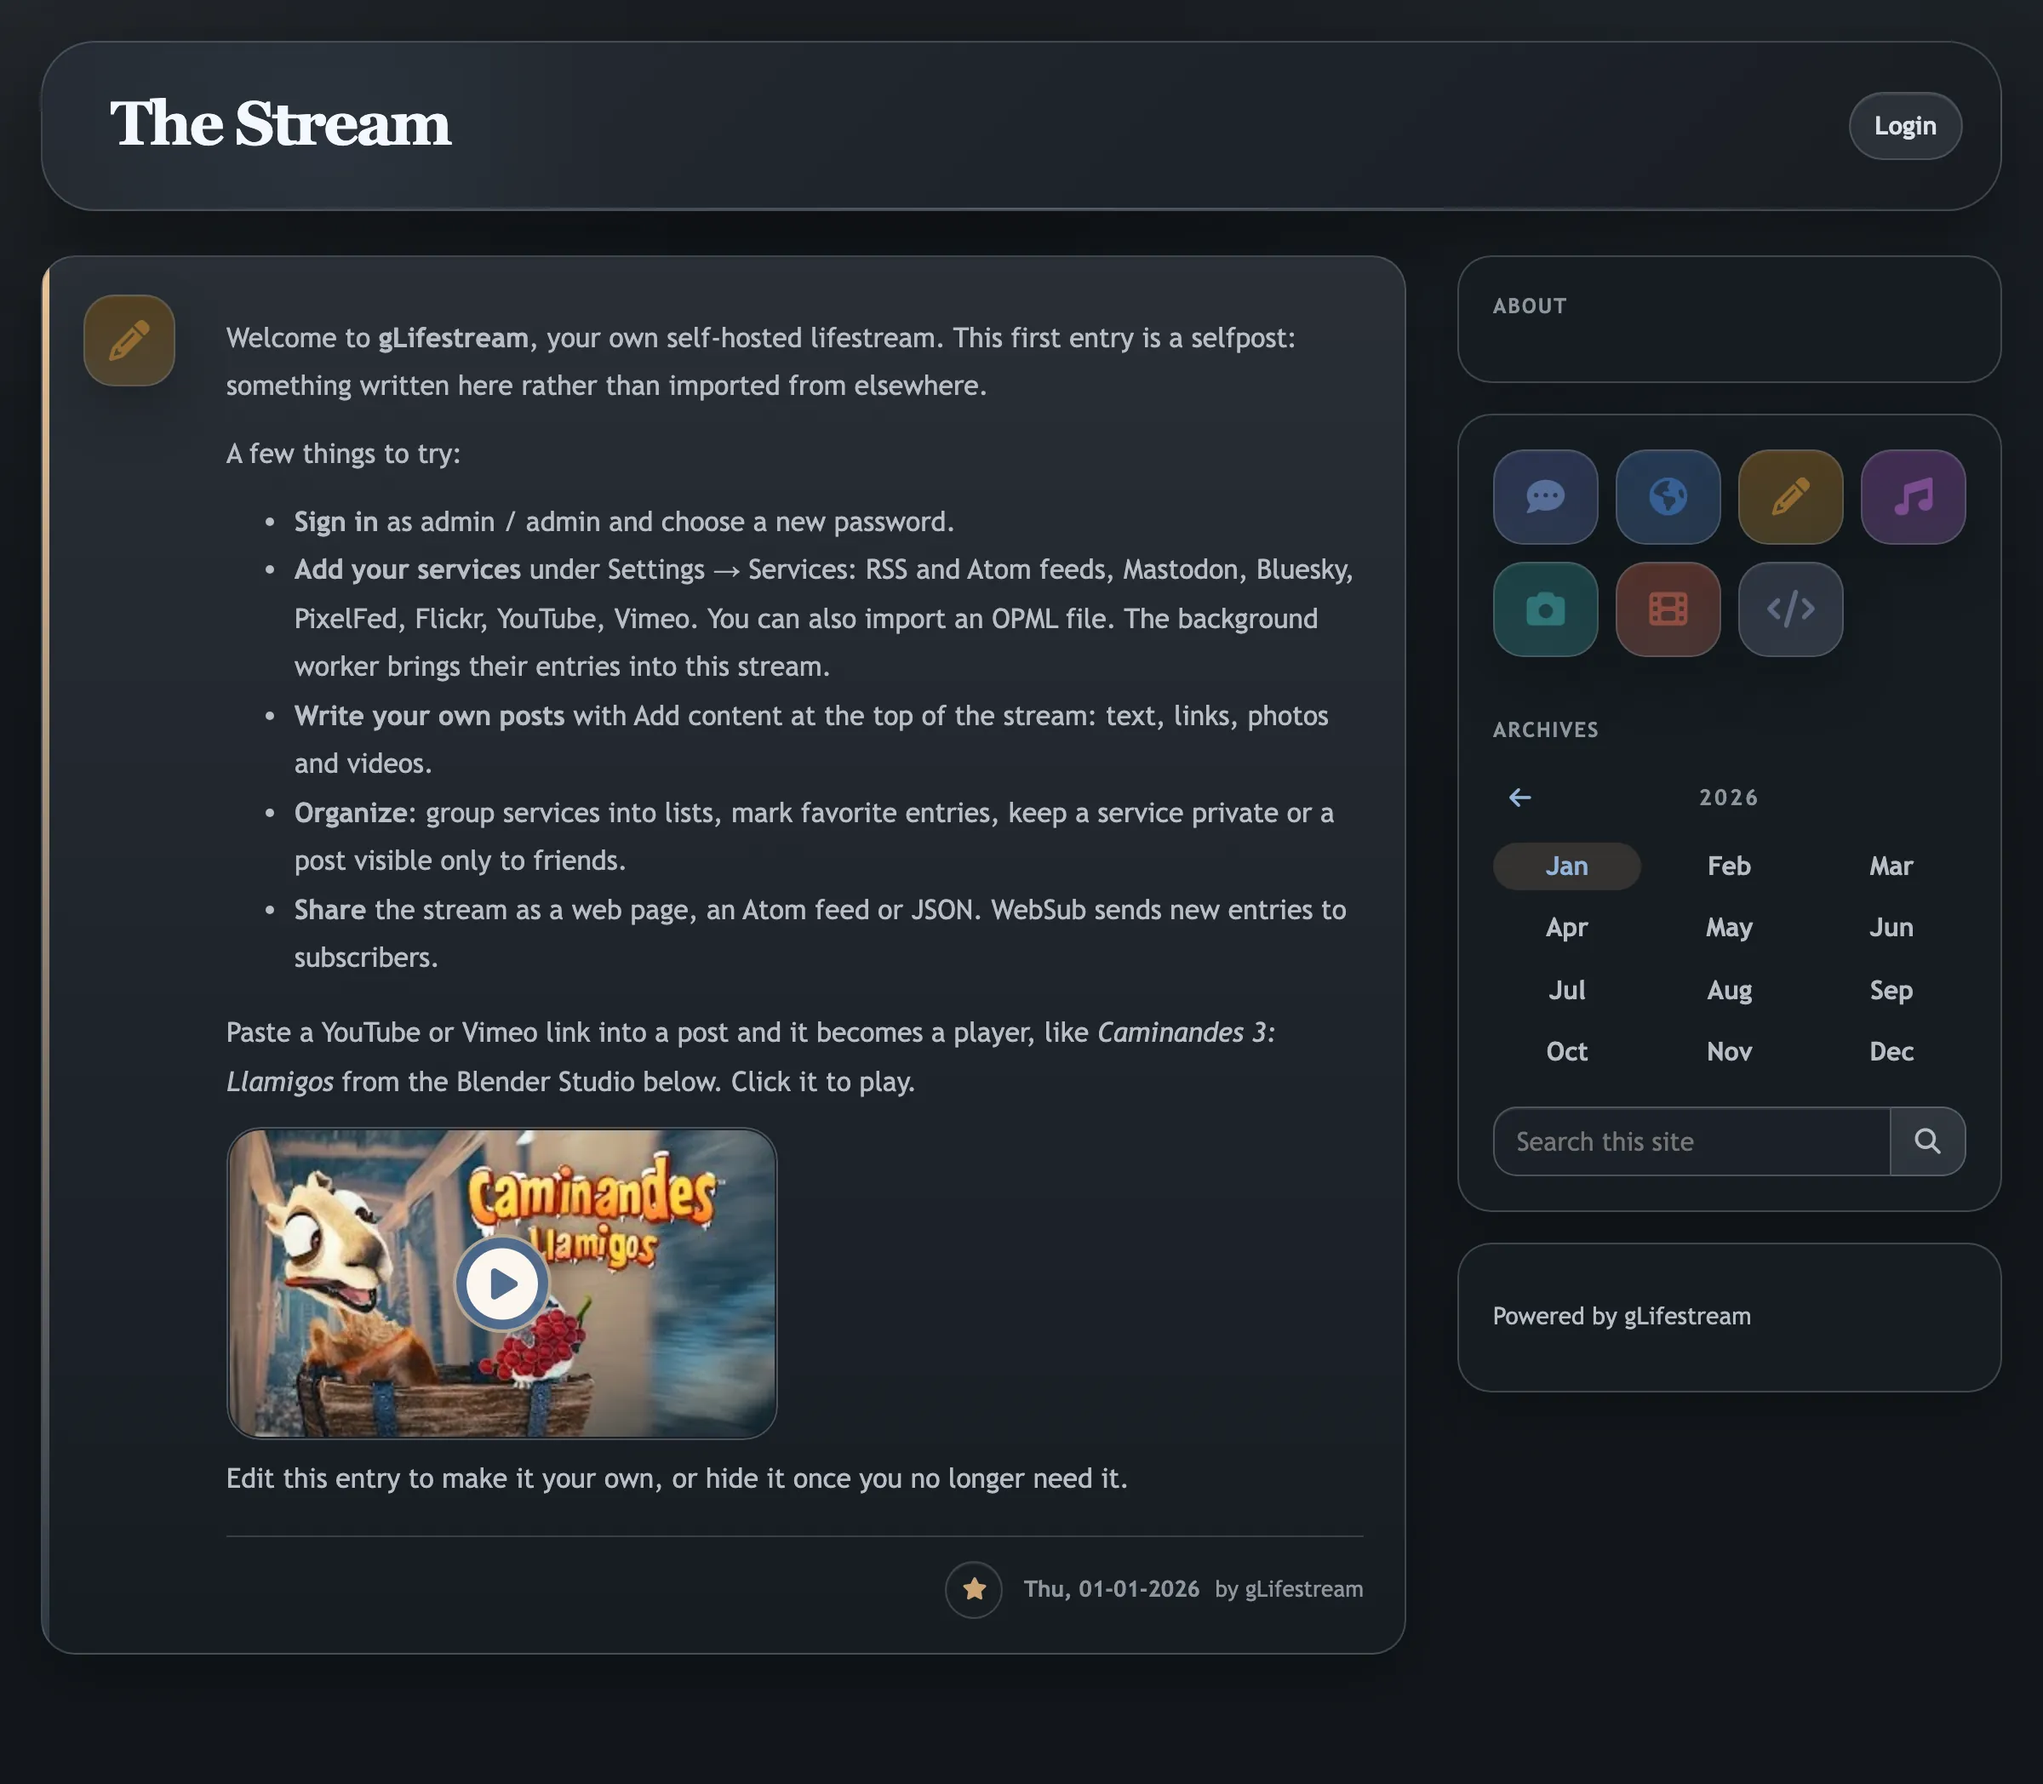
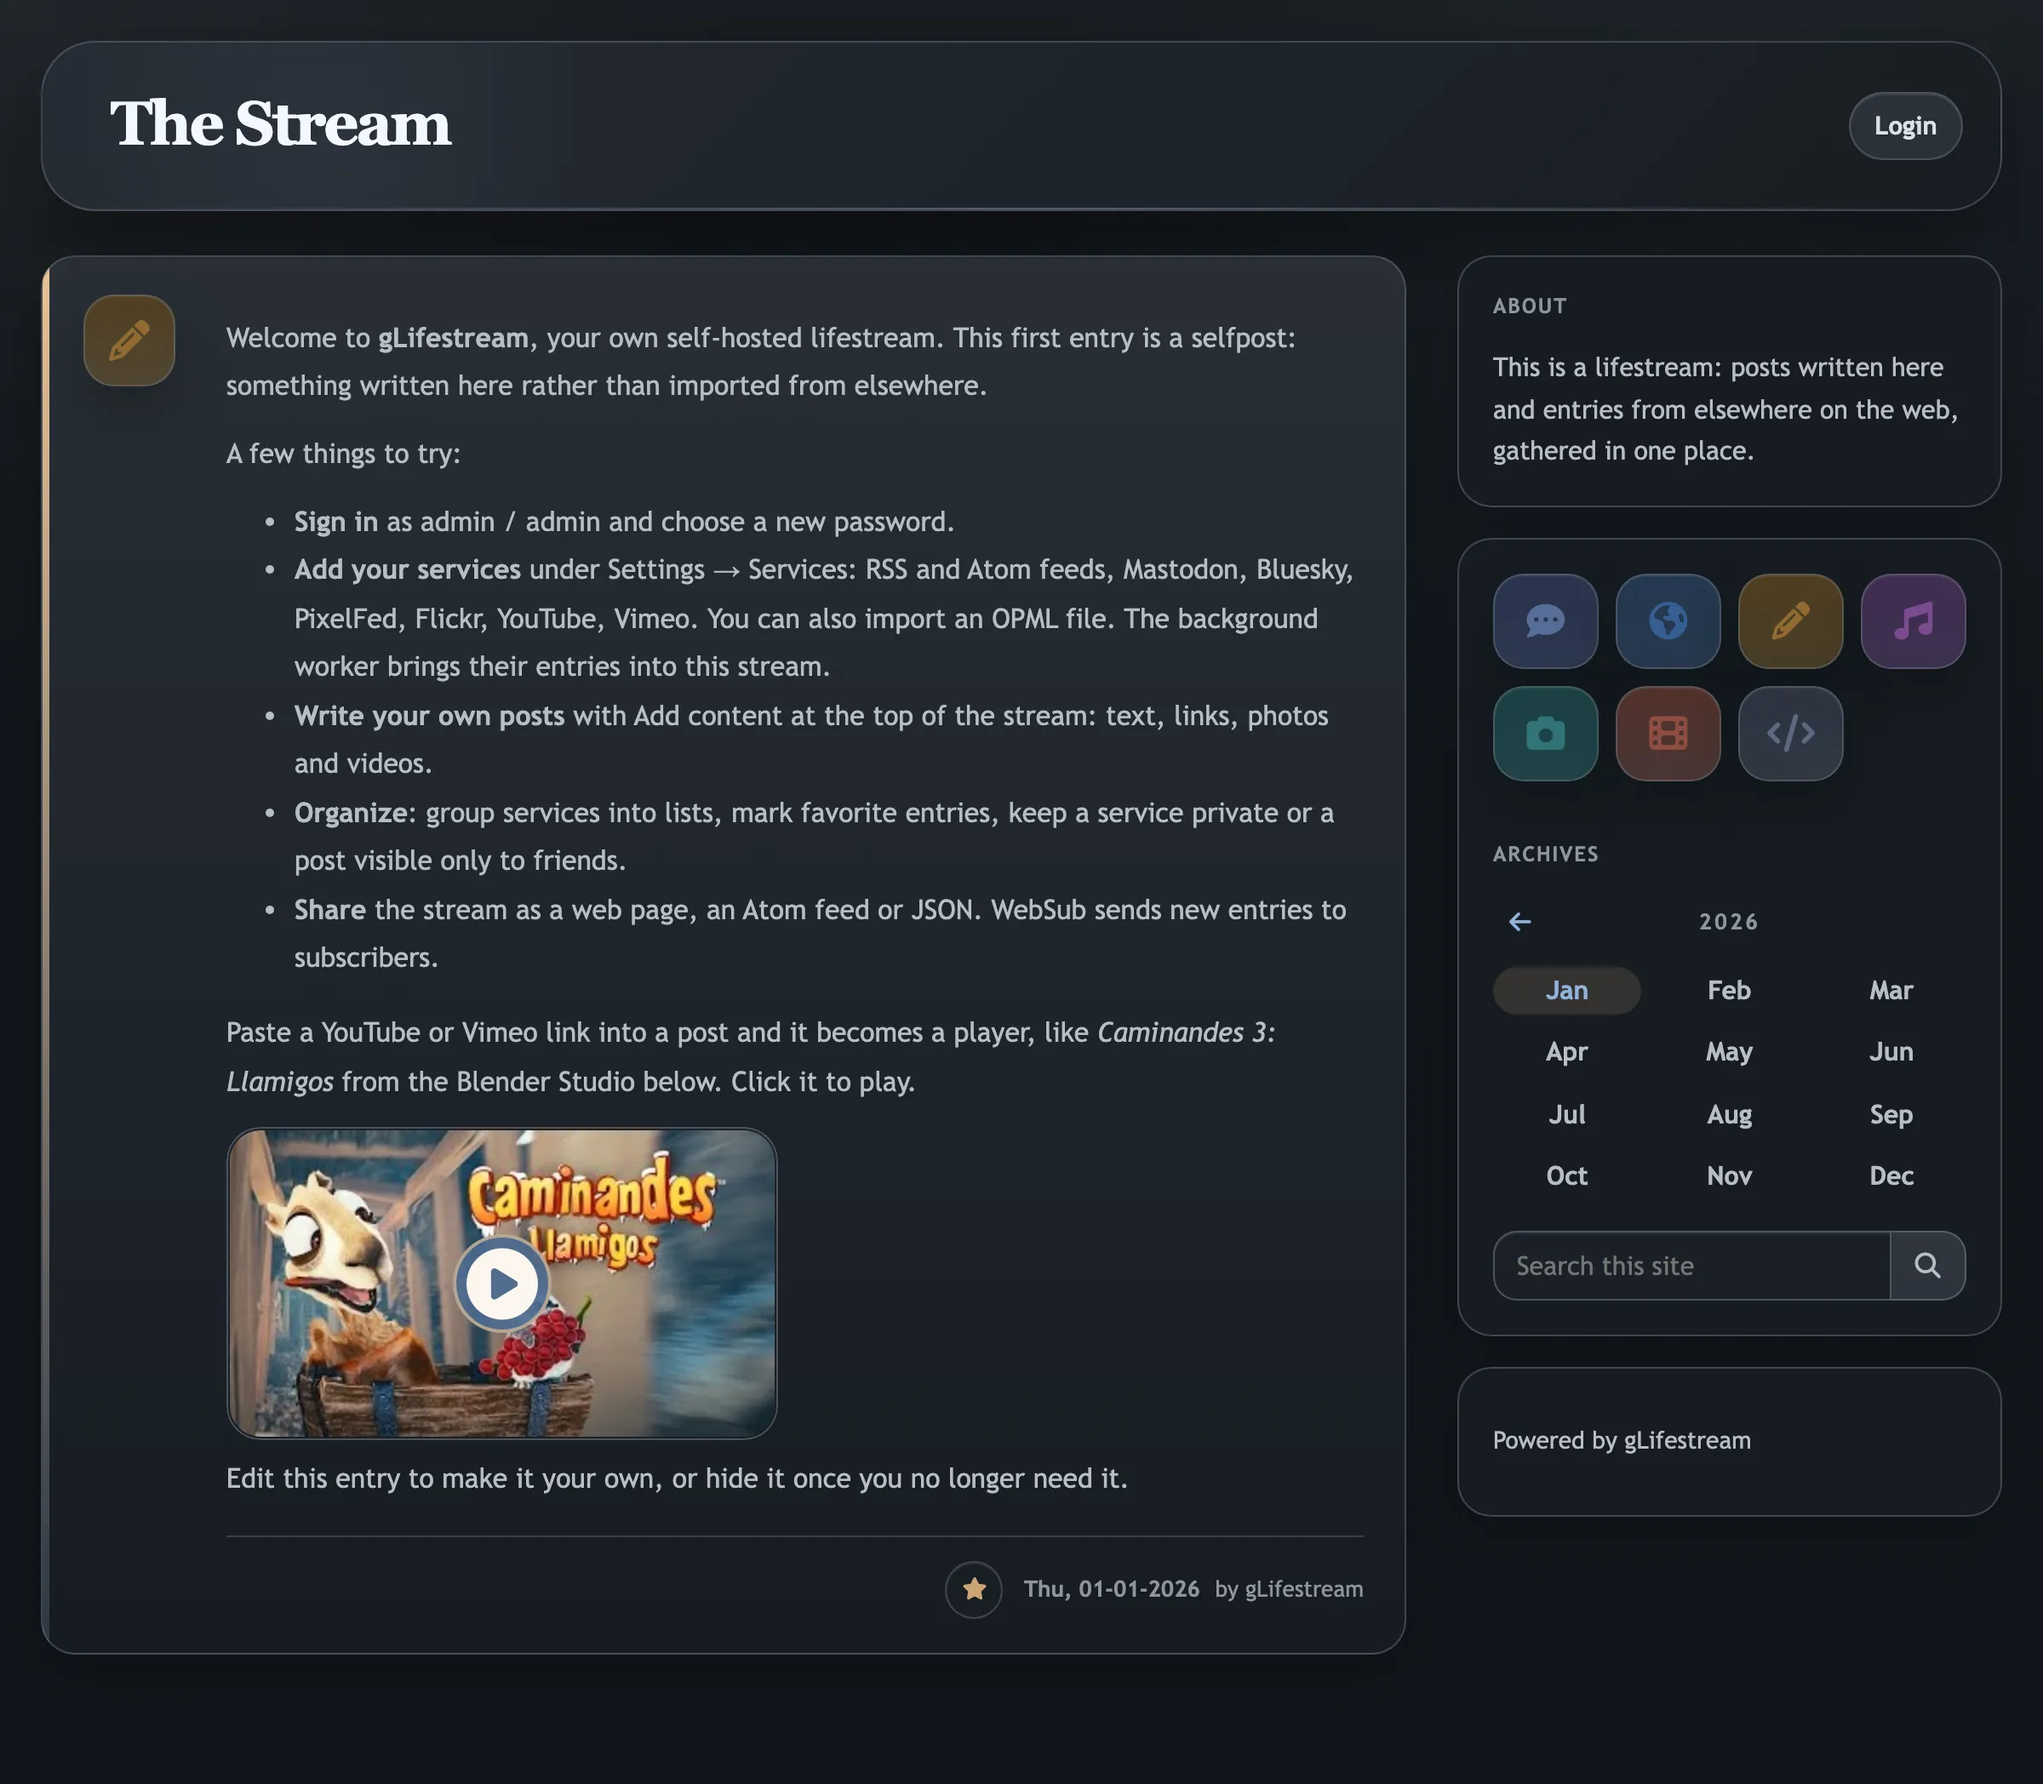
feat: make a first start look like the README screenshot

diff --git a/glifestream/static/themes/default/style.scss b/glifestream/static/themes/default/style.scss
@@ -1273,7 +1273,8 @@ img.entry-icon {
 
 // On the timeline a long entry folds to --fold-lines lines (the user's
 // preference), fading out, until "Show more" unfolds it. An entry on its own
-// page never folds: the page script folds only what this rule would hide.
+// page, or alone on the timeline, never folds: the page script folds only
+// what this rule would hide.
 #stream:not(.single-entry) .entry-content.folded {
   max-height: calc(var(--fold-lines, 20) * 1.8em);
   max-height: calc(var(--fold-lines, 20) * 1lh);

diff --git a/glifestream/templates/stream.html b/glifestream/templates/stream.html
@@ -63,7 +63,7 @@
 
 {% block mainClass %}stream{% endblock mainClass %}
 {% block main %}
-<main id="stream" class="hfeed{% if page.exactentry %} single-entry{% endif %}">
+<main id="stream" class="hfeed{% if page.exactentry or entries|length == 1 %} single-entry{% endif %}">
 
 {% if authed %}
 <aside id="share" class="share-collapsed">

diff --git a/glifestream/tests/test_worker_management_commands.py b/glifestream/tests/test_worker_management_commands.py
@@ -25,6 +25,7 @@ from unittest.mock import patch
 import pytest
 from django.core.management import call_command
 from django.core.management.base import CommandError
+from django.template.loader import render_to_string
 from django.test import override_settings
 from django.utils import timezone
 
@@ -146,3 +147,41 @@ def test_worker_init_files_command_creates_missing_media_root(tmp_path):
 
     assert (media_root / 'upload').is_dir()
     assert (media_root / 'thumbs' / 'f').is_dir()
+
+
+def test_worker_init_files_command_writes_starting_user_templates(tmp_path):
+    media_root = tmp_path / 'media'
+    templates_dir = tmp_path / 'templates'
+    templates_dir.mkdir()
+    # An owner's own template is kept as it is.
+    (templates_dir / 'user-about.html').write_text('<p>Mine</p>')
+
+    with override_settings(
+        MEDIA_ROOT=str(media_root),
+        TEMPLATES=[
+            {
+                'BACKEND': 'django.template.backends.django.DjangoTemplates',
+                'DIRS': [str(templates_dir)],
+                'APP_DIRS': True,
+                'OPTIONS': {'context_processors': []},
+            }
+        ],
+    ):
+        call_command('worker_init_files', stdout=StringIO())
+        copyright = render_to_string(
+            'user-copyright.html',
+            {
+                'page': {
+                    'copyright_years': '2025-2026',
+                    'author_name': 'gLifestream',
+                    'author_uri': 'https://example.com/',
+                }
+            },
+        )
+
+    assert (templates_dir / 'user-about.html').read_text() == '<p>Mine</p>'
+    assert 'Copyright &copy; 2025-2026' in copyright
+    assert '<a href="https://example.com/" class="url fn" rel="me">gLifestream</a>' in (
+        copyright
+    )
+    assert (templates_dir / 'user-scripts.js').read_text() == ''

diff --git a/glifestream/worker/init_files.py b/glifestream/worker/init_files.py
@@ -23,6 +23,22 @@ from typing import Any, cast
 
 from django.conf import settings
 
+# What a new installation shows until the owner edits these templates.
+USER_TEMPLATES = {
+    'user-about.html': """\
+{# The About box in the sidebar. Edit this file to say who you are. #}
+<p>This is a lifestream: posts written here and entries from elsewhere on
+  the web, gathered in one place.</p>
+""",
+    'user-copyright.html': """\
+{# The footer of the stream. Edit this file to name the stream's owner. #}
+<p id="copyright" class="vcard">Copyright &copy; {% if page.copyright_years %}{{ page.copyright_years }} {% endif %}
+  {% if page.author_uri %}<a href="{{ page.author_uri }}" class="url fn" rel="me">{{ page.author_name }}</a>{% else %}<span class="fn">{{ page.author_name }}</span>{% endif %}
+</p>
+""",
+    'user-scripts.js': '',
+}
+
 
 def init_files_dirs() -> int:
     upload = os.path.join(settings.MEDIA_ROOT, 'upload')
@@ -46,17 +62,12 @@ and all have write permissions by your webserver.
     templates = cast(list[dict[str, Any]], settings.TEMPLATES)
     template_dirs = cast(list[str], templates[0]['DIRS'])
     template_dir = template_dirs[0]
-    template_files = (
-        'user-about.html',
-        'user-copyright.html',
-        'user-scripts.js',
-    )
     try:
-        for template_file in template_files:
+        for template_file, content in USER_TEMPLATES.items():
             path = Path(template_dir, template_file)
             if not path.is_file():
-                print("Creating empty file '%s'" % path)
-                path.touch()
+                print("Creating file '%s'" % path)
+                path.write_text(content, encoding='utf-8')
     except Exception as exc:
         print(exc)
         return 1

diff --git a/glifestream/tests/test_views_index.py b/glifestream/tests/test_views_index.py
@@ -64,6 +64,17 @@ def test_index_date_year_filter(client, entries):
 
 
 @pytest.mark.django_db
+def test_index_lone_entry_is_not_folded(client, entries):
+    # The theme folds long entries only on a timeline of several: a new
+    # installation's welcome entry is shown whole.
+    lone = client.get('/2022/').content.decode()
+    several = client.get('/2023/').content.decode()
+
+    assert '<main id="stream" class="hfeed single-entry">' in lone
+    assert '<main id="stream" class="hfeed">' in several
+
+
+@pytest.mark.django_db
 def test_index_date_month_filter(client, entries):
     url = '/2023/10/'  # Using hardcoded URL since original urls.py has no name
     response = client.get(url)

diff --git a/CHANGELOG.md b/CHANGELOG.md
@@ -63,7 +63,11 @@ work, so only the significant changes are listed.
 - A welcome entry for new installations, with first steps and a video player,
   instead of a bare "Hello, World!". `manage.py load_initial_data` loads it with
   the starting services into an empty database, both in Docker and in
-  `./scripts/bootstrap`; `--no-welcome` leaves the entry out.
+  `./scripts/bootstrap`; `--no-welcome` leaves the entry out. A new
+  installation also gets a starting About box and copyright footer
+  (`user-about.html`, `user-copyright.html` in `run/templates/`). In the
+  Compose stack `FEED_AUTHOR_NAME` defaults to "gLifestream" instead of
+  "YOUR NAME".
 - Test infrastructure: pytest suite, Playwright E2E coverage (including OAuth
   and Bluesky service flows), optional visual regression testing, and coverage
   reporting.
@@ -74,7 +78,8 @@ work, so only the significant changes are listed.
 - Support for additional image formats and a reworked thumbnail pipeline.
 - Reblog filtering and an entry link shortcut in the admin view.
 - Long entries fold behind "Show more" on the timeline. Preferences sets the
-  height in lines; `FOLD_LINES` sets the default.
+  height in lines; `FOLD_LINES` sets the default. An entry alone on the page
+  never folds.
 
 ### Changed
 
